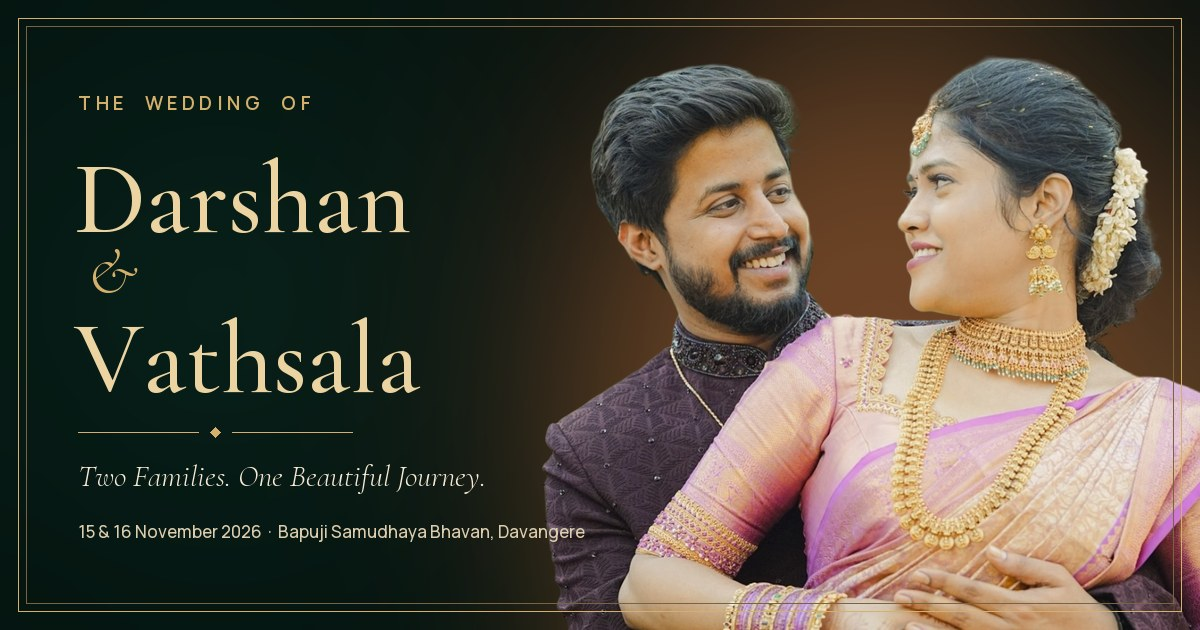
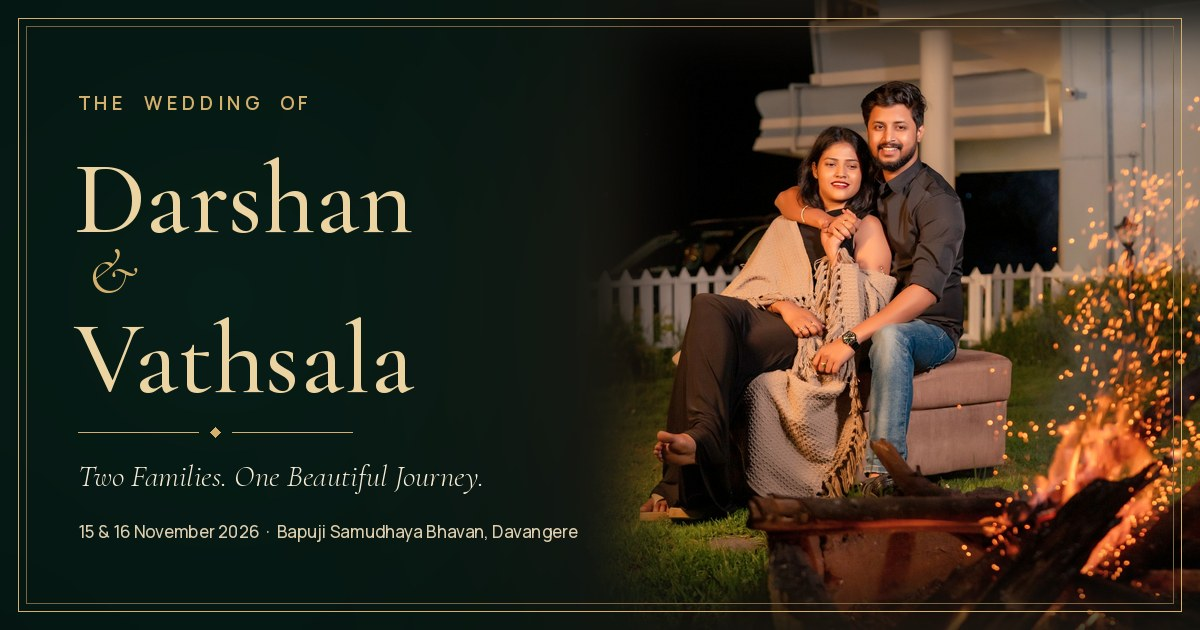
Link preview: the couple by the bonfire on the groom side's cover
The image WhatsApp and other apps show when the site's link is shared now
has the couple by the bonfire on the right, in the same gold-on-night card
(names, tagline, dates and venue on the left). Only the finished 1200x630
image is committed; the photograph's metadata-free crop stays out of the
repository like the other originals. `make_brand_assets.py --og` rebuilds
just this image.

Claude-Session: https://claude.ai/code/session_011n7UBMfFwZ2yuReFizHXe7

diff --git a/tools/make_brand_assets.py b/tools/make_brand_assets.py
@@ -3,8 +3,12 @@ Generates favicon / app icons / web manifest / Open Graph image.
 
     python tools/make_brand_assets.py
 
-Uses the OFL fonts in tools/fonts and the processed traditional cut-out master
-(source-images/processed/couple-traditional-cutout-master.png).
+    python tools/make_brand_assets.py --og      (only the link-preview image)
+
+Uses the OFL fonts in tools/fonts. The groom side's link-preview image shows the couple by the bonfire
+(source-images/processed/couple-bonfire-og.jpg — a metadata-free crop of the family's photograph, kept
+out of the repository like the other originals); without it, the traditional cut-out master
+(source-images/processed/couple-traditional-cutout-master.png) is used as on the bride side's site.
 """
 from __future__ import annotations
 
@@ -94,6 +98,28 @@ def og_image() -> Image.Image:
     img = Image.blend(img, Image.composite(overlay, img, Image.new("L", (W, H), 120)), 0.5)
     d = ImageDraw.Draw(img)
 
+    photo = ROOT / "source-images" / "processed" / "couple-bonfire-og.jpg"
+    if photo.exists():
+        # the couple by the bonfire on the right, melting into the night on its left and at the frame
+        pw, px = 640, W - 640
+        ph_img = Image.open(photo).convert("RGB")
+        ph_img = ph_img.resize((pw, round(ph_img.height * pw / ph_img.width)), Image.LANCZOS)
+        top = max(0, (ph_img.height - H) // 2 - 6)
+        ph_img = ph_img.crop((0, top, pw, top + H))
+        # a touch warmer and deeper, to sit with the gold and night green of the card
+        r_, g_, b_ = ph_img.split()
+        ph_img = Image.merge("RGB", (r_.point(lambda v: min(255, int(v * 1.04))), g_, b_.point(lambda v: int(v * 0.94))))
+        mask = Image.new("L", (pw, H), 255)
+        md = ImageDraw.Draw(mask)
+        for i in range(150):  # eased fade along the left edge
+            t = i / 150
+            md.line((i, 0, i, H), fill=int(255 * (t * t * (3 - 2 * t))))
+        vign = Image.new("L", (pw, H), 0)
+        ImageDraw.Draw(vign).rectangle((40, 30, pw + 60, H - 30), fill=255)
+        mask = Image.composite(mask, Image.new("L", (pw, H), 0), vign.filter(ImageFilter.GaussianBlur(26)))
+        img.paste(ph_img, (px, 0), mask)
+        return _og_text(img)
+
     # couple cut-out on the right, anchored to the bottom edge
     cut = Image.open(ROOT / "source-images" / "processed" / "couple-traditional-cutout-master.png").convert("RGBA")
     ch = 575
@@ -104,6 +130,17 @@ def og_image() -> Image.Image:
     ImageDraw.Draw(halo).ellipse((cx + 40, 40, cx + cw - 20, H + 200), fill=150)
     img.paste(Image.new("RGB", (W, H), (150, 96, 52)), (0, 0), halo.filter(ImageFilter.GaussianBlur(90)))
     img.paste(cut, (cx, H - ch), cut)
+    return _og_text(img)
+
+
+def _og_text(img: Image.Image) -> Image.Image:
+    """The card's frame and words, over whichever picture is on the right."""
+    W, H = img.size
+    d = ImageDraw.Draw(img)
+    # a little shade behind the words
+    shade = Image.new("L", (W, H), 0)
+    ImageDraw.Draw(shade).rectangle((0, 0, 560, H), fill=90)
+    img.paste(Image.new("RGB", (W, H), NIGHT), (0, 0), shade.filter(ImageFilter.GaussianBlur(60)))
     d = ImageDraw.Draw(img)
 
     # hairline frame
@@ -148,7 +185,12 @@ FAVICON_SVG = """<svg xmlns="http://www.w3.org/2000/svg" viewBox="0 0 64 64">
 
 
 def main() -> None:
+    import sys
+
     (PUBLIC / "og").mkdir(parents=True, exist_ok=True)
+    if "--og" in sys.argv:
+        og_image().save(PUBLIC / "og" / "og-image.jpg", quality=88, optimize=True, progressive=True)
+        return
     (PUBLIC / "icons").mkdir(parents=True, exist_ok=True)
     (PUBLIC / "favicon.svg").write_text(FAVICON_SVG, encoding="utf-8")
     monogram_icon(256).resize((32, 32), Image.LANCZOS).save(PUBLIC / "favicon-32.png")
